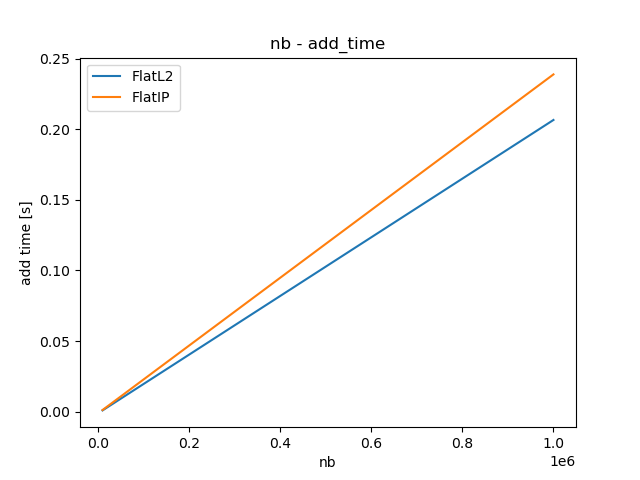
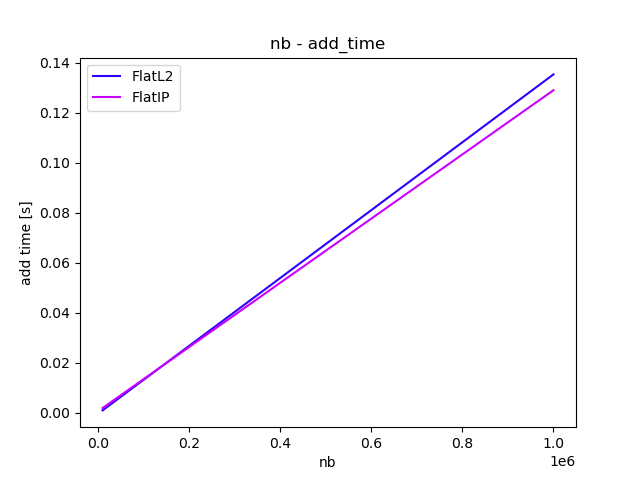
色と順番を固定した。

diff --git a/compare.py b/compare.py
@@ -1,9 +1,11 @@
 import numpy as np
 import matplotlib.pyplot as plt
+import matplotlib.colors as mcolors
 import pandas as pd
 import torch
 
 from data.data import make_data
+from plot.compare_qps import plot_qps_hnsw
 from model.flatl2 import FlatL2
 from model.flatip import FlatIP
 from model.flatl2_pca import FlatL2PCA
@@ -15,97 +17,10 @@ from model.gpu_flatl2 import GpuFlatL2
 from model.gpu_ivf import GpuIVF
 from model.gpu_ivfpq import GpuIVFPQ
 
-def get_gt(xb, xq, d, k):
-  """
-  return : 
-    gt : 2D np.ndarray, indexes for k nearest neighbors
-  
-  "gt" means grand truth.
-  """
-  flatL2 = FlatL2(k = k)
-  _, _ = flatL2.train(xb, d)
-  _, gt, _ = flatL2.search(xq)
-  return gt
-
-def get_recall(I, gt, n_recall):
-  """
-  I : 2D np.ndarray, indexes for k nearest neighbors
-  gt : same shape as I, grand truth (calculated by Flat)
-
-  return : 
-    recall : how much top-n_recall IDs are similar
-
-  ex)
-  if n_recall = 1, this function returns recall@1
-  if n_recall = 10, this function returns recall@10
-  """
-  assert I.shape[0] == gt.shape[0]
-  assert I.shape[1] >= n_recall
-
-  nq = I.shape[0]
-  recall = 0
-  for i in range(nq):
-    recall += len(set(I[i, :n_recall]) & set(gt[i, :n_recall])) / float(n_recall)
-  recall /= nq
-  return recall
-
-def plot_qps_hnsw():
-  k = 4
-  
-  nb = 10**6
-  nq = 1000
-  d = 64
-  n_trial = 5
-  n_recall = 1
-  efs = [2**i for i in range(2, 11)]
-  qps_list = [[] for i in range(n_trial)]
-  recall_list = [[] for i in range(n_trial)]
-  
-
-  for n_try in range(n_trial):
-    print(f"----------iteration {n_try} / {n_trial} -----------")
-    xb, xq, d = make_data(nb, nq, d)
-    gt = get_gt(xb=xb, xq=xq, d=d, k=k)
-
-    for ef in efs:
-      print(f"ef = {ef}")
-
-      model = HNSWFlat(k = k, m = ef)
-      # train
-      _, _ = model.train(xb, d)
-      print("train done")
-
-      # search
-      _, I, time_search = model.search(xq)
-      print("search done")
-
-      # calculate QPS, Recall
-      qps_list[n_try].append(nq / time_search)
-      recall_list[n_try].append(get_recall(I=I, gt=gt, n_recall=n_recall))
-
-  recall_list = np.mean(np.array(recall_list), axis=(0))
-  qps_list = np.mean(np.array(qps_list), axis=(0))
-  print(f"recall_list \n {recall_list}")
-  print(f"qps_list \n {qps_list}")
-
-  #描画
-  name_models = "HNSW"
-
-  plt.figure()
-  
-  plt.plot(recall_list, qps_list, label=model.name)
-  plt.xlabel(f"Recall@{n_recall}")
-  plt.ylabel("Query Per Second [s]")
-  plt.yscale("log")
-  plt.title("recall - pqs")
-
-  for i, ef in enumerate(efs):
-    plt.annotate(f"ef = {ef}", (recall_list[i], qps_list[i]), textcoords="offset points", xytext=(5,10), ha='center')
-
-  plt.legend()
-  plt.savefig(f"data/fig/compare_recall_qps_{name_models}.png")
-  plt.show()
-
+def gen_color(order):
+  colors = plt.get_cmap("tab20").colors
+  index = (order - 1) % 100 + 10 * (order - 1)//100
+  return colors[index]
 
 def main():
   # モデル定義
@@ -122,11 +37,11 @@ def main():
     gpuivf = GpuIVF(k = k, nlist = 100, nprobe = 3)
     gpuivfpq = GpuIVFPQ(k = k, nlist = 100, m = 8)
   # models = [flatL2, flatIP, flatL2pca, ivf, ivfpq, hnswFlat, bi_hnsw, gpuflatL2, gpuivf, gpuivfpq]
-  models = [flatL2, flatIP]
-  name_models = '_'.join(model.name for model in models)
+  models = [flatL2, flatIP, flatL2pca, ivf, ivfpq, hnswFlat, bi_hnsw]
+  name_models = '_'.join(model.name for model in sorted(models, key = lambda x: x.order))
   
   # nb_list = np.logspace(4, 6, 10).astype("int")
-  nb_list = np.linspace(10**4, 10**6, 2).astype("int")
+  nb_list = np.linspace(10**4, 10**4.1, 2).astype("int")
   nq_list = [1000]
   d_list = [64]
   n_trial = 2
@@ -186,7 +101,7 @@ def main():
   # 描画
   plt.figure()
   for model in models:
-    plt.plot(nb_list, df_time_train_read.loc[model.name], label=model.name)
+    plt.plot(nb_list, df_time_train_read.loc[model.name], label=model.name, color=gen_color(model.order))
   plt.xlabel("nb")
   plt.ylabel("train time [s]")
   plt.title("nb - train_time")
@@ -196,7 +111,7 @@ def main():
 
   plt.figure()
   for model in models:
-    plt.plot(nb_list, df_time_add_read.loc[model.name], label=model.name)
+    plt.plot(nb_list, df_time_add_read.loc[model.name], label=model.name, color=gen_color(model.order))
   plt.xlabel("nb")
   plt.ylabel("add time [s]")
   plt.title("nb - add_time")
@@ -206,7 +121,7 @@ def main():
 
   plt.figure()
   for model in models:
-    plt.plot(nb_list, df_time_search_read.loc[model.name], label=model.name)
+    plt.plot(nb_list, df_time_search_read.loc[model.name], label=model.name, color=gen_color(model.order))
   plt.xlabel("nb")
   plt.ylabel("search time [s]")
   plt.title("nb - search_time")

diff --git a/plot/compare_qps.py b/plot/compare_qps.py
@@ -1,0 +1,97 @@
+import numpy as np
+import matplotlib.pyplot as plt
+
+from data.data import make_data
+from model.flatl2 import FlatL2
+from model.hnswflat import HNSWFlat
+
+def get_gt(xb, xq, d, k):
+  """
+  return : 
+    gt : 2D np.ndarray, indexes for k nearest neighbors
+  
+  "gt" means grand truth.
+  """
+  flatL2 = FlatL2(k = k)
+  _, _ = flatL2.train(xb, d)
+  _, gt, _ = flatL2.search(xq)
+  return gt
+
+def get_recall(I, gt, n_recall):
+  """
+  I : 2D np.ndarray, indexes for k nearest neighbors
+  gt : same shape as I, grand truth (calculated by Flat)
+
+  return : 
+    recall : how much top-n_recall IDs are similar
+
+  ex)
+  if n_recall = 1, this function returns recall@1
+  if n_recall = 10, this function returns recall@10
+  """
+  assert I.shape[0] == gt.shape[0]
+  assert I.shape[1] >= n_recall
+
+  nq = I.shape[0]
+  recall = 0
+  for i in range(nq):
+    recall += len(set(I[i, :n_recall]) & set(gt[i, :n_recall])) / float(n_recall)
+  recall /= nq
+  return recall
+
+def plot_qps_hnsw():
+  k = 4
+  
+  nb = 10**6
+  nq = 1000
+  d = 64
+  n_trial = 5
+  n_recall = 1
+  efs = [2**i for i in range(2, 11)]
+  qps_list = [[] for i in range(n_trial)]
+  recall_list = [[] for i in range(n_trial)]
+  
+
+  for n_try in range(n_trial):
+    print(f"----------iteration {n_try} / {n_trial} -----------")
+    xb, xq, d = make_data(nb, nq, d)
+    gt = get_gt(xb=xb, xq=xq, d=d, k=k)
+
+    for ef in efs:
+      print(f"ef = {ef}")
+
+      model = HNSWFlat(k = k, m = ef)
+      # train
+      _, _ = model.train(xb, d)
+      print("train done")
+
+      # search
+      _, I, time_search = model.search(xq)
+      print("search done")
+
+      # calculate QPS, Recall
+      qps_list[n_try].append(nq / time_search)
+      recall_list[n_try].append(get_recall(I=I, gt=gt, n_recall=n_recall))
+
+  recall_list = np.mean(np.array(recall_list), axis=(0))
+  qps_list = np.mean(np.array(qps_list), axis=(0))
+  print(f"recall_list \n {recall_list}")
+  print(f"qps_list \n {qps_list}")
+
+  #描画
+  name_models = "HNSW"
+
+  plt.figure()
+  
+  plt.plot(recall_list, qps_list, label=model.name)
+  plt.xlabel(f"Recall@{n_recall}")
+  plt.ylabel("Query Per Second [s]")
+  plt.yscale("log")
+  plt.title("recall - pqs")
+
+  for i, ef in enumerate(efs):
+    plt.annotate(f"ef = {ef}", (recall_list[i], qps_list[i]), textcoords="offset points", xytext=(5,10), ha='center')
+
+  plt.legend()
+  plt.savefig(f"data/fig/compare_recall_qps_{name_models}.png")
+  plt.show()

diff --git a/model/bi_hnswflat.py b/model/bi_hnswflat.py
@@ -10,7 +10,8 @@ class BinaryHNSW():
   def __init__(self, k, m):
     self.k = k
     self.m = m
-    self.name = "Binary HNSW"
+    self.name = "Binary-HNSW"
+    self.order = 7
 
   def train(self, xb, d):
     """

diff --git a/model/gpu_flatl2.py b/model/gpu_flatl2.py
@@ -13,6 +13,7 @@ class GpuFlatL2():
     self.res = faiss.StandardGpuResources()
     self.config = faiss.GpuIndexFlatConfig()
     self.config.device = 0
+    self.order = 101
 
   def train(self, xb, d):
     """

diff --git a/model/gpu_ivf.py b/model/gpu_ivf.py
@@ -15,6 +15,7 @@ class GpuIVF():
     self.res = faiss.StandardGpuResources()
     self.config = faiss.GpuIndexIVFFlatConfig()
     self.config.device = 0
+    self.order = 102
 
   def train(self, xb, d):
     """

diff --git a/model/gpu_ivfpq.py b/model/gpu_ivfpq.py
@@ -20,6 +20,7 @@ class GpuIVFPQ():
     self.res = faiss.StandardGpuResources()
     self.config = faiss.GpuIndexIVFPQConfig()
     self.config.device = 0
+    self.order = 103
 
   def train(self, xb, d):
     """

diff --git a/model/flatl2_pca.py b/model/flatl2_pca.py
@@ -11,6 +11,7 @@ class FlatL2PCA():
     self.k = k
     self.d_new = d_new
     self.name = "FlatL2_PCA"
+    self.order = 3
 
   def train(self, xb, d):
     """

diff --git a/model/ivf.py b/model/ivf.py
@@ -12,6 +12,7 @@ class IVF():
     self.nlist = nlist
     self.nprobe = nprobe
     self.name = "IVF"
+    self.order = 4
 
   def train(self, xb, d):
     """

diff --git a/model/flatip.py b/model/flatip.py
@@ -10,6 +10,7 @@ class FlatIP():
   def __init__(self, k):
     self.k = k
     self.name = "FlatIP"
+    self.order = 2
 
   def train(self, xb, d):
     """

diff --git a/model/flatl2.py b/model/flatl2.py
@@ -10,6 +10,7 @@ class FlatL2():
   def __init__(self, k):
     self.k = k
     self.name = "FlatL2"
+    self.order = 1
 
   def train(self, xb, d):
     """

diff --git a/model/ivfpq.py b/model/ivfpq.py
@@ -17,6 +17,7 @@ class IVFPQ():
     self.nlist = nlist
     self.m = m
     self.name = "IVF-PQ"
+    self.order = 5
 
   def train(self, xb, d):
     """

diff --git a/model/hnswflat.py b/model/hnswflat.py
@@ -11,6 +11,7 @@ class HNSWFlat():
     self.k = k
     self.m = m
     self.name = "HNSWFlat"
+    self.order = 6
 
   def train(self, xb, d):
     """
